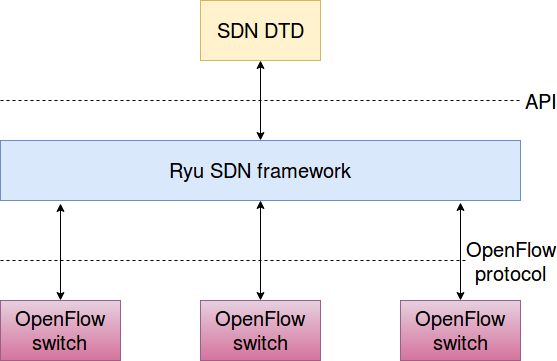
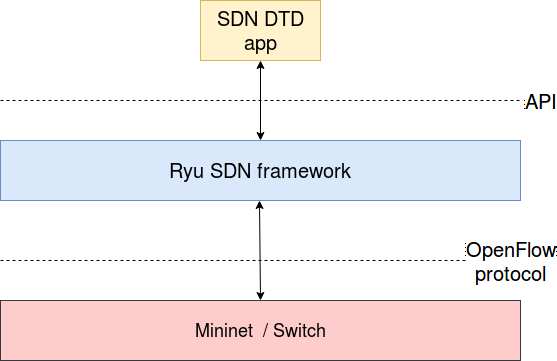
Fix picture

diff --git a/docs/navh.md b/docs/navh.md
@@ -116,7 +116,7 @@ Architektúra daného SDN prostredia sa skladá z nasledujúcich prvkov a je pre
 ![architecture1][architecture1]
 
 [architecture1]:
-https://github.com/aks-2017/semestralne-zadania-semestralne-zadanie-xmastilak-xpanis-xvaculciak/blob/navrh_luka/docs/pictures/architecture1.png
+https://github.com/aks-2017/semestralne-zadania-semestralne-zadanie-xmastilak-xpanis-xvaculciak/blob/navrh_luka/docs/pictures/architecture.png
 Obr. 6 - Návrh architektúry pre Mininet
 
 ##### Mininet
@@ -129,12 +129,6 @@ Obr. 7 - Návrh topológie pre Mininet
 
 ##### Reálne prostredie
 Na testovanie SDN siete v reálnom prostredí používame zariadenia Soekris net6501, na ktorých je OS Debian. Architektúra je podobná s Mininet architektúrou. Rozdiel je v použití fyzických SDN prepínačov namiesto Mininet emulátora. V prepínači je na OS Debian spustený proces Open vSwitch, ktorý podporuje OpenFlow. Daný prepínač komunikuje s controllerom, ktorý je implementovaný pomocou RYU a nad ním je aplikácia, ktorá implementuje DTD algoritmus a pomocou RYU API dáva inštrukcie konkrétnym prepínačom, aby sa vytvorila cesta pre konkrétne pakety záložnou cestou.
-
-![architecture][architecture]
-
-[architecture]:
-https://github.com/aks-2017/semestralne-zadania-semestralne-zadanie-xmastilak-xpanis-xvaculciak/blob/navrh_luka/docs/pictures/architecture.png
-Obr. 8 - Návrh architektúry pre reálne prostredie
 
 Čo sa ale týka zapojenia a samotnej topológie, bolo potrebné pristúpiť k zmenám, nakoľko nemáme k dispozícií taký počet SDN prepínačov a ani portov na prepínačoch.
 Je teda pravepodobné, že nebude možné vykonať merania na fyzickej topológií tak, aby ju bolo možné porovnať s Mininet topológiou. Vykoná sa len zapojenie a testovanie funkčnosti zapojenia SDN reálnej siete.
